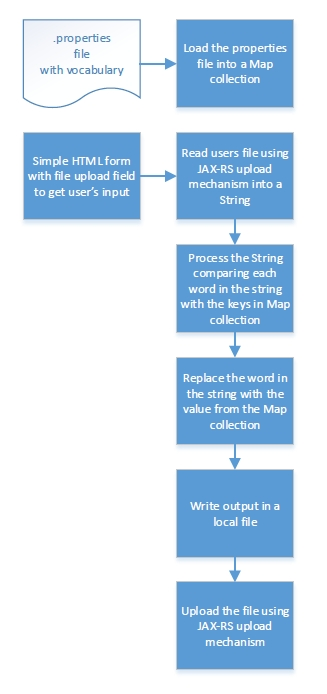
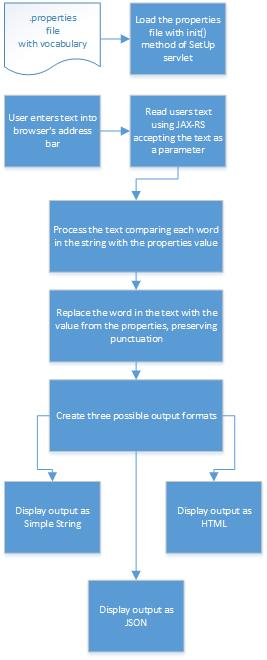
change image

diff --git a/README.md b/README.md
@@ -1,15 +1,21 @@
-# CVR
-Cockpit Voice Recorder - Team Project by Connor, Vlad, and Ran.
+# iCVR
+Cockpit Voice Recorder - RESTful API. Team Project by Isaac, Connor, Vlad, and Ran.
 
 ![cvr](https://github.com/vgorbic1/CVR/blob/master/images/pilot.png)
 
 ### Problem Statement
 
-Pilots use lingo related to their job that average people will have a difficult time understanding. Our web service will allow the user to enter the text in question, and our program will decipher the meaning into common english.
+Pilots use lingo related to their job that average people will have a difficult time understanding. Our web service will
+allow the user to enter the text in question, and our program will decipher the meaning into common English.
 
-The basic program flow chart:
-=======
-Pilots use lingo related to their job that normal people will have a difficult time understanding. Our web service will allow the user to enter the text in question, and will attempt to decipher the meaning into common English.
+### Application Functionality
+* Let's assume that the user has an unformatted text (string of characters) that requires translation.
+* The user enters this text into a browser's address bar using one of provided links. Each link represents an output
+that the user may prefer. Currently, there are three pre-formatted options available: Simple Text, HTML, and JSON.
+
+**Restrictions** The length of the user's text should not exceed 2000 characters.
+
+[Demo](http://tomcat-vgorbic1.rhcloud.com/icvr/)
 
 [Project Plan](https://github.com/vgorbic1/CVR/blob/master/projectPlan.md)
 
